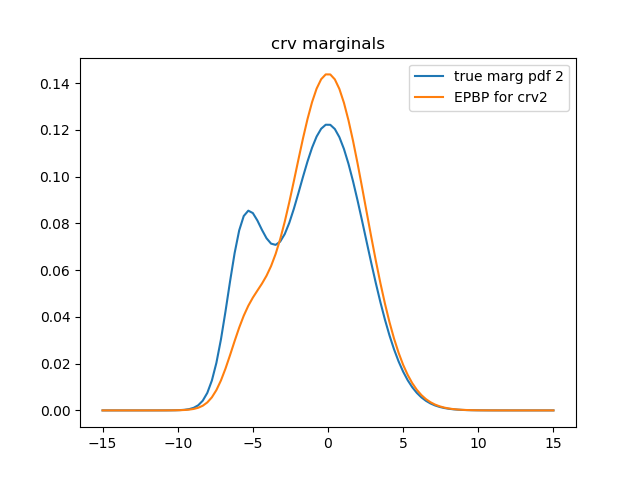
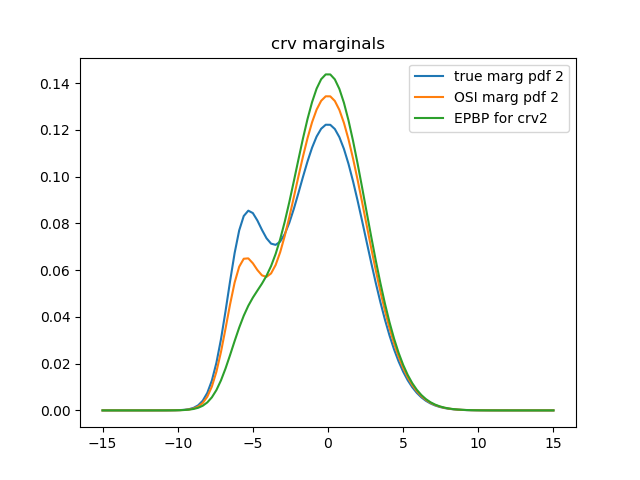
add plot when EPBP fails to capture 2 modes and OSI does OK (had a bit of convergence issue at first due to not high enough T)

diff --git a/osi/hybrid_mln_experiment_plot.py b/osi/hybrid_mln_experiment_plot.py
@@ -6,6 +6,7 @@ from MLNPotential import *
 from Potential import QuadraticPotential, TablePotential, HybridQuadraticPotential
 from EPBPLogVersion import EPBP
 from OneShot import OneShot, LiftedOneShot
+from NPVI import NPVI, LiftedNPVI
 from CompressedGraphSorted import CompressedGraphSorted
 import numpy as np
 import time
@@ -207,17 +208,41 @@ for test_num in range(num_tests):
     err_var[name] = np.average(np.average(res ** 2, axis=1)) / num_tests + err_var.get(name, 0)
     print(name, 'diff', np.average(np.average(abs(res), axis=1)))
     print(name, 'var', np.average(np.average(res ** 2, axis=1)) - np.average(np.average(abs(res), axis=1)) ** 2)
-    #
-    # name = 'OSI'
-    # K = 2
-    # T = 10
-    # lr = 0.5
-    # its = 10
+
+    name = 'OSI'
+    K = 5
+    T = 20
+    lr = 0.5
+    its = 1000
+    fix_mix_its = int(its * 0.5)
+    logging_itv = 50
+    res = np.zeros((len(key_list), num_runs))
+    utils.set_log_potential_funs(g.factors_list)
+    osi = NPVI(g=g, K=K, T=T, seed=seed)  # can be moved outside of all loops if the ground MRF doesn't change
+    for j in range(num_runs):
+        # utils.set_seed(test_seed + j)
+        start_time = time.process_time()
+        osi.run(lr=lr, its=its, fix_mix_its=fix_mix_its, logging_itv=logging_itv)
+        time_cost[name] = (time.process_time() - start_time) / num_runs / num_tests + time_cost.get(name, 0)
+        print(name, f'time {time.process_time() - start_time}')
+        for i, key in enumerate(key_list):
+            res[i, j] = osi.map(obs_rvs=[], query_rv=rvs_table[key])
+        print(res[:, j])
+        # print(osi.params)
+        print('Mu =\n', osi.params['Mu'], '\nVar =\n', osi.params['Var'])
+    for i, key in enumerate(key_list):
+        res[i, :] -= ans[key]
+    avg_diff[name] = np.average(np.average(abs(res), axis=1)) / num_tests + avg_diff.get(name, 0)
+    err_var[name] = np.average(np.average(res ** 2, axis=1)) / num_tests + err_var.get(name, 0)
+    print(name, 'diff', np.average(np.average(abs(res), axis=1)))
+    print(name, 'var', np.average(np.average(res ** 2, axis=1)) - np.average(np.average(abs(res), axis=1)) ** 2)
+
+    # name = 'NPVI'
     # fix_mix_its = int(its * 0.5)
     # logging_itv = 50
     # res = np.zeros((len(key_list), num_runs))
     # utils.set_log_potential_funs(g.factors_list)
-    # osi = OneShot(g=g, K=K, T=T, seed=seed)  # can be moved outside of all loops if the ground MRF doesn't change
+    # osi = NPVI(g=g, K=K, T=T, seed=seed)  # can be moved outside of all loops if the ground MRF doesn't change
     # for j in range(num_runs):
     #     # utils.set_seed(test_seed + j)
     #     start_time = time.process_time()
@@ -235,7 +260,8 @@ for test_num in range(num_tests):
     # err_var[name] = np.average(np.average(res ** 2, axis=1)) / num_tests + err_var.get(name, 0)
     # print(name, 'diff', np.average(np.average(abs(res), axis=1)))
     # print(name, 'var', np.average(np.average(res ** 2, axis=1)) - np.average(np.average(abs(res), axis=1)) ** 2)
-    #
+
+
     # name = 'LOSI'
     # cg = CompressedGraphSorted(g)
     # cg.run()
@@ -278,10 +304,10 @@ for test_crv_idx in tests[-1:]:
     if baseline == 'gibbs':
         plt.hist(hgsampler.cont_samples[:, test_crv_idx], normed=True, label='samples')
 
-    # osi_test_crv_marg_params = osi.params['w'], osi.params['Mu'][test_crv_idx], osi.params['Var'][test_crv_idx]
-    # plt.plot(xs, np.exp(utils.get_scalar_gm_log_prob(xs, w=osi_test_crv_marg_params[0], mu=osi_test_crv_marg_params[1],
-    #                                                  var=osi_test_crv_marg_params[2])),
-    #          label=f'OSI marg pdf {test_crv_idx}')
+    osi_test_crv_marg_params = osi.params['w'], osi.params['Mu'][test_crv_idx], osi.params['Var'][test_crv_idx]
+    plt.plot(xs, np.exp(utils.get_scalar_gm_log_prob(xs, w=osi_test_crv_marg_params[0], mu=osi_test_crv_marg_params[1],
+                                                     var=osi_test_crv_marg_params[2])),
+             label=f'OSI marg pdf {test_crv_idx}')
     plt.plot(xs, np.exp([epbp_marg_logpdf(x) for x in xs]), label=f'EPBP for crv{test_crv_idx}')
 plt.legend(loc='best')
 plt.title('crv marginals')
